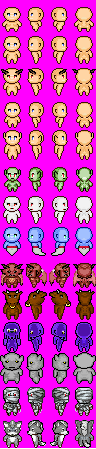
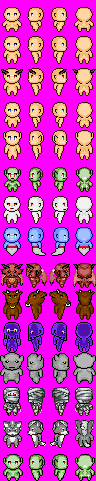
Added orc

diff --git a/src/race.py b/src/race.py
@@ -6,7 +6,7 @@ race_data = [
 	('imp',        0,  3,  0,  0),
 	#('treant',     0,  0,  3,  0),
 	('mindflayer', 0,  0,  0,  3),
-	#('orc',        2,  1,  0,  0),
+	('orc',        2,  1,  0,  0),
 	('ogre',       2,  0,  1,  0),
 	('djinn',      2,  0,  0,  1),
 	('thiefling',  0,  2,  1,  0),
